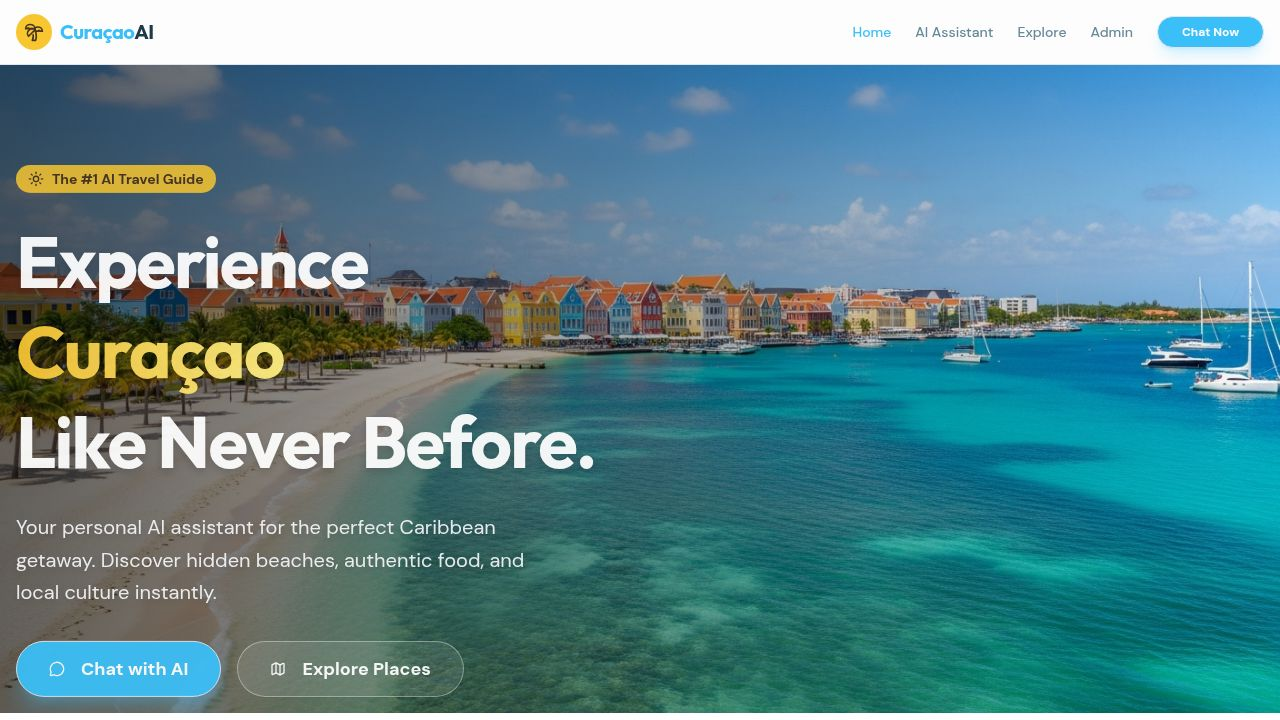
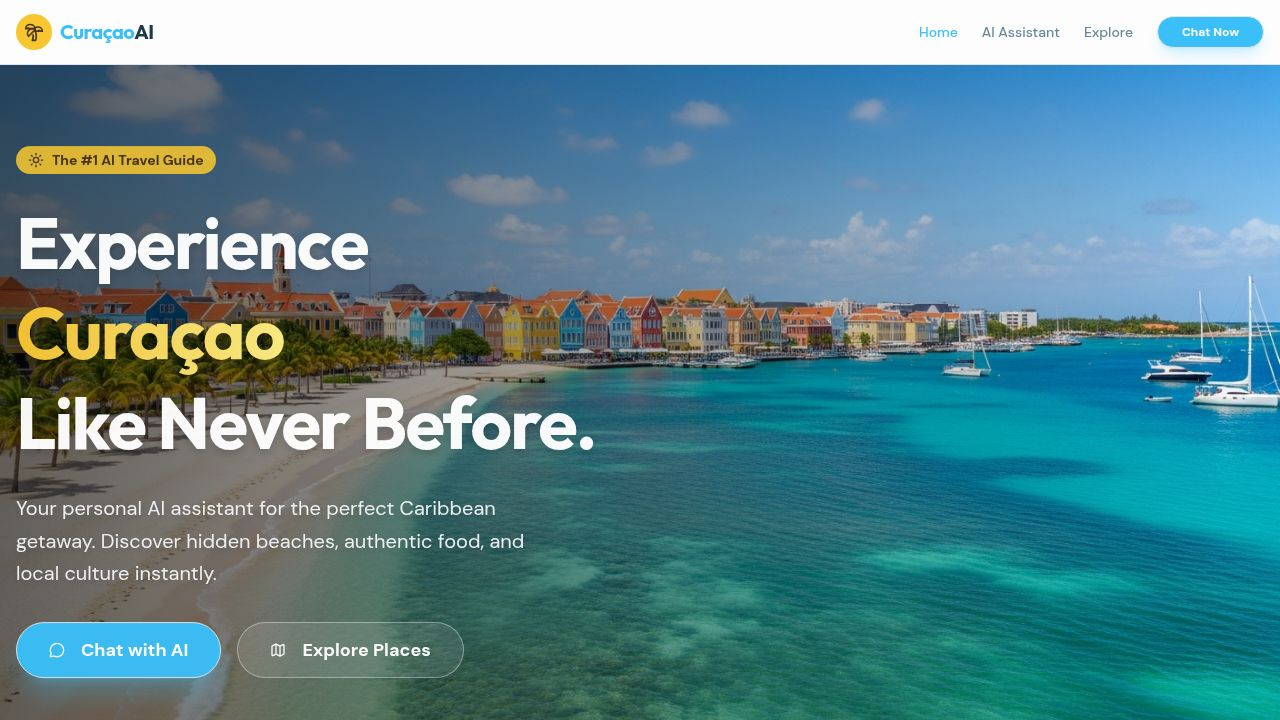
Remove unused admin page and adjust page layouts for better readability
Remove the admin page route, navigation link, and component. Adjust the chat page layout to ensure the AI chat interface is fully visible and improve spacing on the home page hero section.

Replit-Commit-Author: Agent
Replit-Commit-Session-Id: 8156abfb-bc93-4257-9b16-088634e2c743
Replit-Commit-Checkpoint-Type: full_checkpoint
Replit-Commit-Event-Id: 8cb24cab-abe9-4fb8-baa5-476121dd9915
Replit-Commit-Screenshot-Url: https://storage.googleapis.com/screenshot-production-us-central1/fac0c8fb-12b5-4e31-a0cd-5e278004b5c1/8156abfb-bc93-4257-9b16-088634e2c743/zaUlKrQ
Replit-Helium-Checkpoint-Created: true

diff --git a/client/src/App.tsx b/client/src/App.tsx
@@ -7,7 +7,6 @@ import NotFound from "@/pages/not-found";
 import Home from "@/pages/Home";
 import Chat from "@/pages/Chat";
 import Explore from "@/pages/Explore";
-import Admin from "@/pages/Admin";
 
 function Router() {
   return (
@@ -15,7 +14,6 @@ function Router() {
       <Route path="/" component={Home} />
       <Route path="/chat" component={Chat} />
       <Route path="/explore" component={Explore} />
-      <Route path="/admin" component={Admin} />
       <Route component={NotFound} />
     </Switch>
   );

diff --git a/client/src/pages/Chat.tsx b/client/src/pages/Chat.tsx
@@ -70,7 +70,7 @@ export default function Chat() {
 
   return (
     <Layout>
-      <div className="container mx-auto px-4 py-8 max-w-4xl h-[calc(100vh-80px)] flex flex-col">
+      <div className="container mx-auto px-4 py-6 md:py-8 h-[calc(100dvh-100px)] flex flex-col">
         <div className="flex-1 bg-white rounded-3xl shadow-xl border border-border/50 overflow-hidden flex flex-col relative">
           
           {/* Header */}

diff --git a/client/src/pages/Home.tsx b/client/src/pages/Home.tsx
@@ -10,7 +10,7 @@ export default function Home() {
   return (
     <Layout>
       {/* Hero Section */}
-      <section className="relative min-h-[90vh] flex items-center overflow-hidden">
+      <section className="relative min-h-[85vh] flex items-center overflow-hidden pb-16">
         {/* Background Image with Overlay */}
         <div className="absolute inset-0 z-0">
           <img 

diff --git a/client/src/components/Layout.tsx b/client/src/components/Layout.tsx
@@ -12,7 +12,6 @@ export default function Layout({ children }: { children: React.ReactNode }) {
     { href: "/", label: "Home", icon: TreePalm },
     { href: "/chat", label: "AI Assistant", icon: MessageCircle },
     { href: "/explore", label: "Explore", icon: Map },
-    { href: "/admin", label: "Admin", icon: Settings },
   ];
 
   return (
